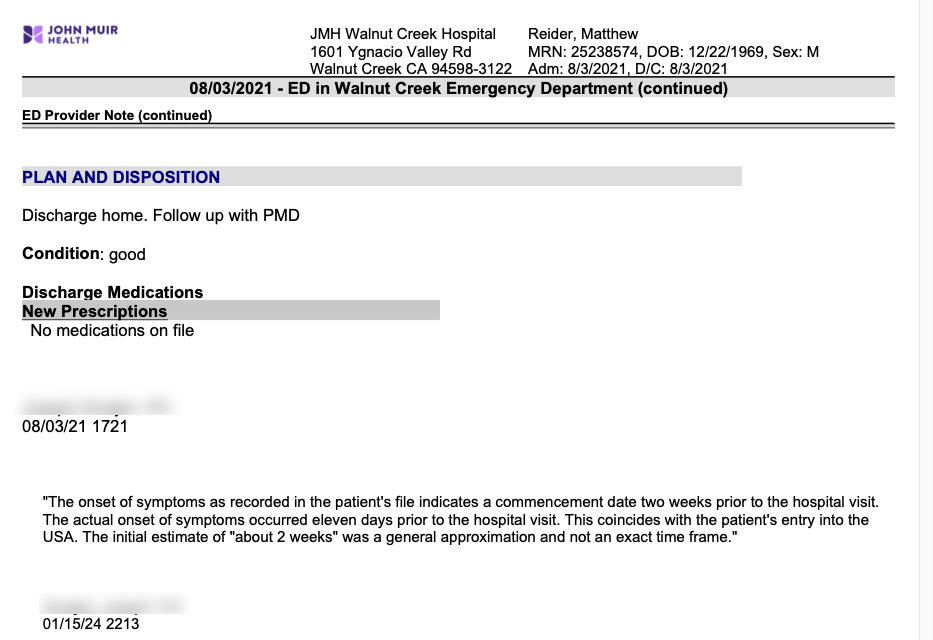
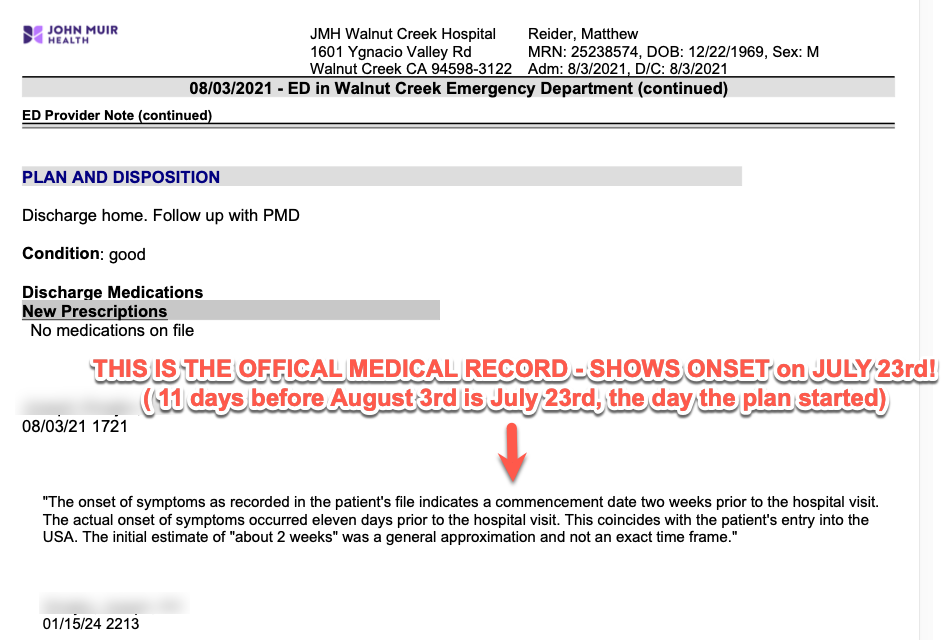
another

diff --git a/index.md b/index.md
@@ -20,45 +20,53 @@ If you have questions I am reachable via mreider at gmail dot com.
 9. The letter of rejection just states over, and over, that it's a pre-existing condition
 10. The medical record shows it is not
 
-Despite clear evidence contradicting their claims, my legitimate healthcare needs were dismissed under the guise of pre-existing conditions. This experience serves as a warning for anyone considering IMG Global's services. Their lack of response, absence of paperwork, and predatory claim rejections paint a clear picture: steer clear of IMG Global to avoid a similar predicament.
+![original1](timeline.png)
+
+Despite my paying almost $500 for a month's worth of insurance, my legitiamte healthcare needs were uncovered because of so-called pre-existing conditions. Yet the dates do not line up. All of the paperwork shows this very clearly. 
+
+Criminal. 
+Opportunistic. 
+Disgusting. 
+
+Steer clear of IMG Insurance.
 
 ## Details
 
-### Buying the plan
+## Buying the plan
 
 ![original1](original1.png)
 ![original2](original2.png)
 ![original3](original3.png)
 
-### I asked about coverage (no response)
+## I asked about coverage (no response)
 
 ![coverage](coverage.png)
 
-### The bill
+## The bill
 
 ![the bill](bill.png)
 
 <hr>
 
-### Collection notice
+## Collection notice
 
 ![collection](collection.png)
 
 <hr>
 
-### Medical record stating NOT a pre-existing condition
+## Medical record stating NOT a pre-existing condition
 
 ![pre-existing](pre-existing.png)
 
 <hr>
 
-### Independent review from International Medical Group / Bessie Banks
+## Independent review from International Medical Group / Bessie Banks
 
 ![independent](independent.png)
 
 <hr>
 
-### Rejection (again)
+## Rejection (again)
 
 ![rejection](rejection.png)
 
